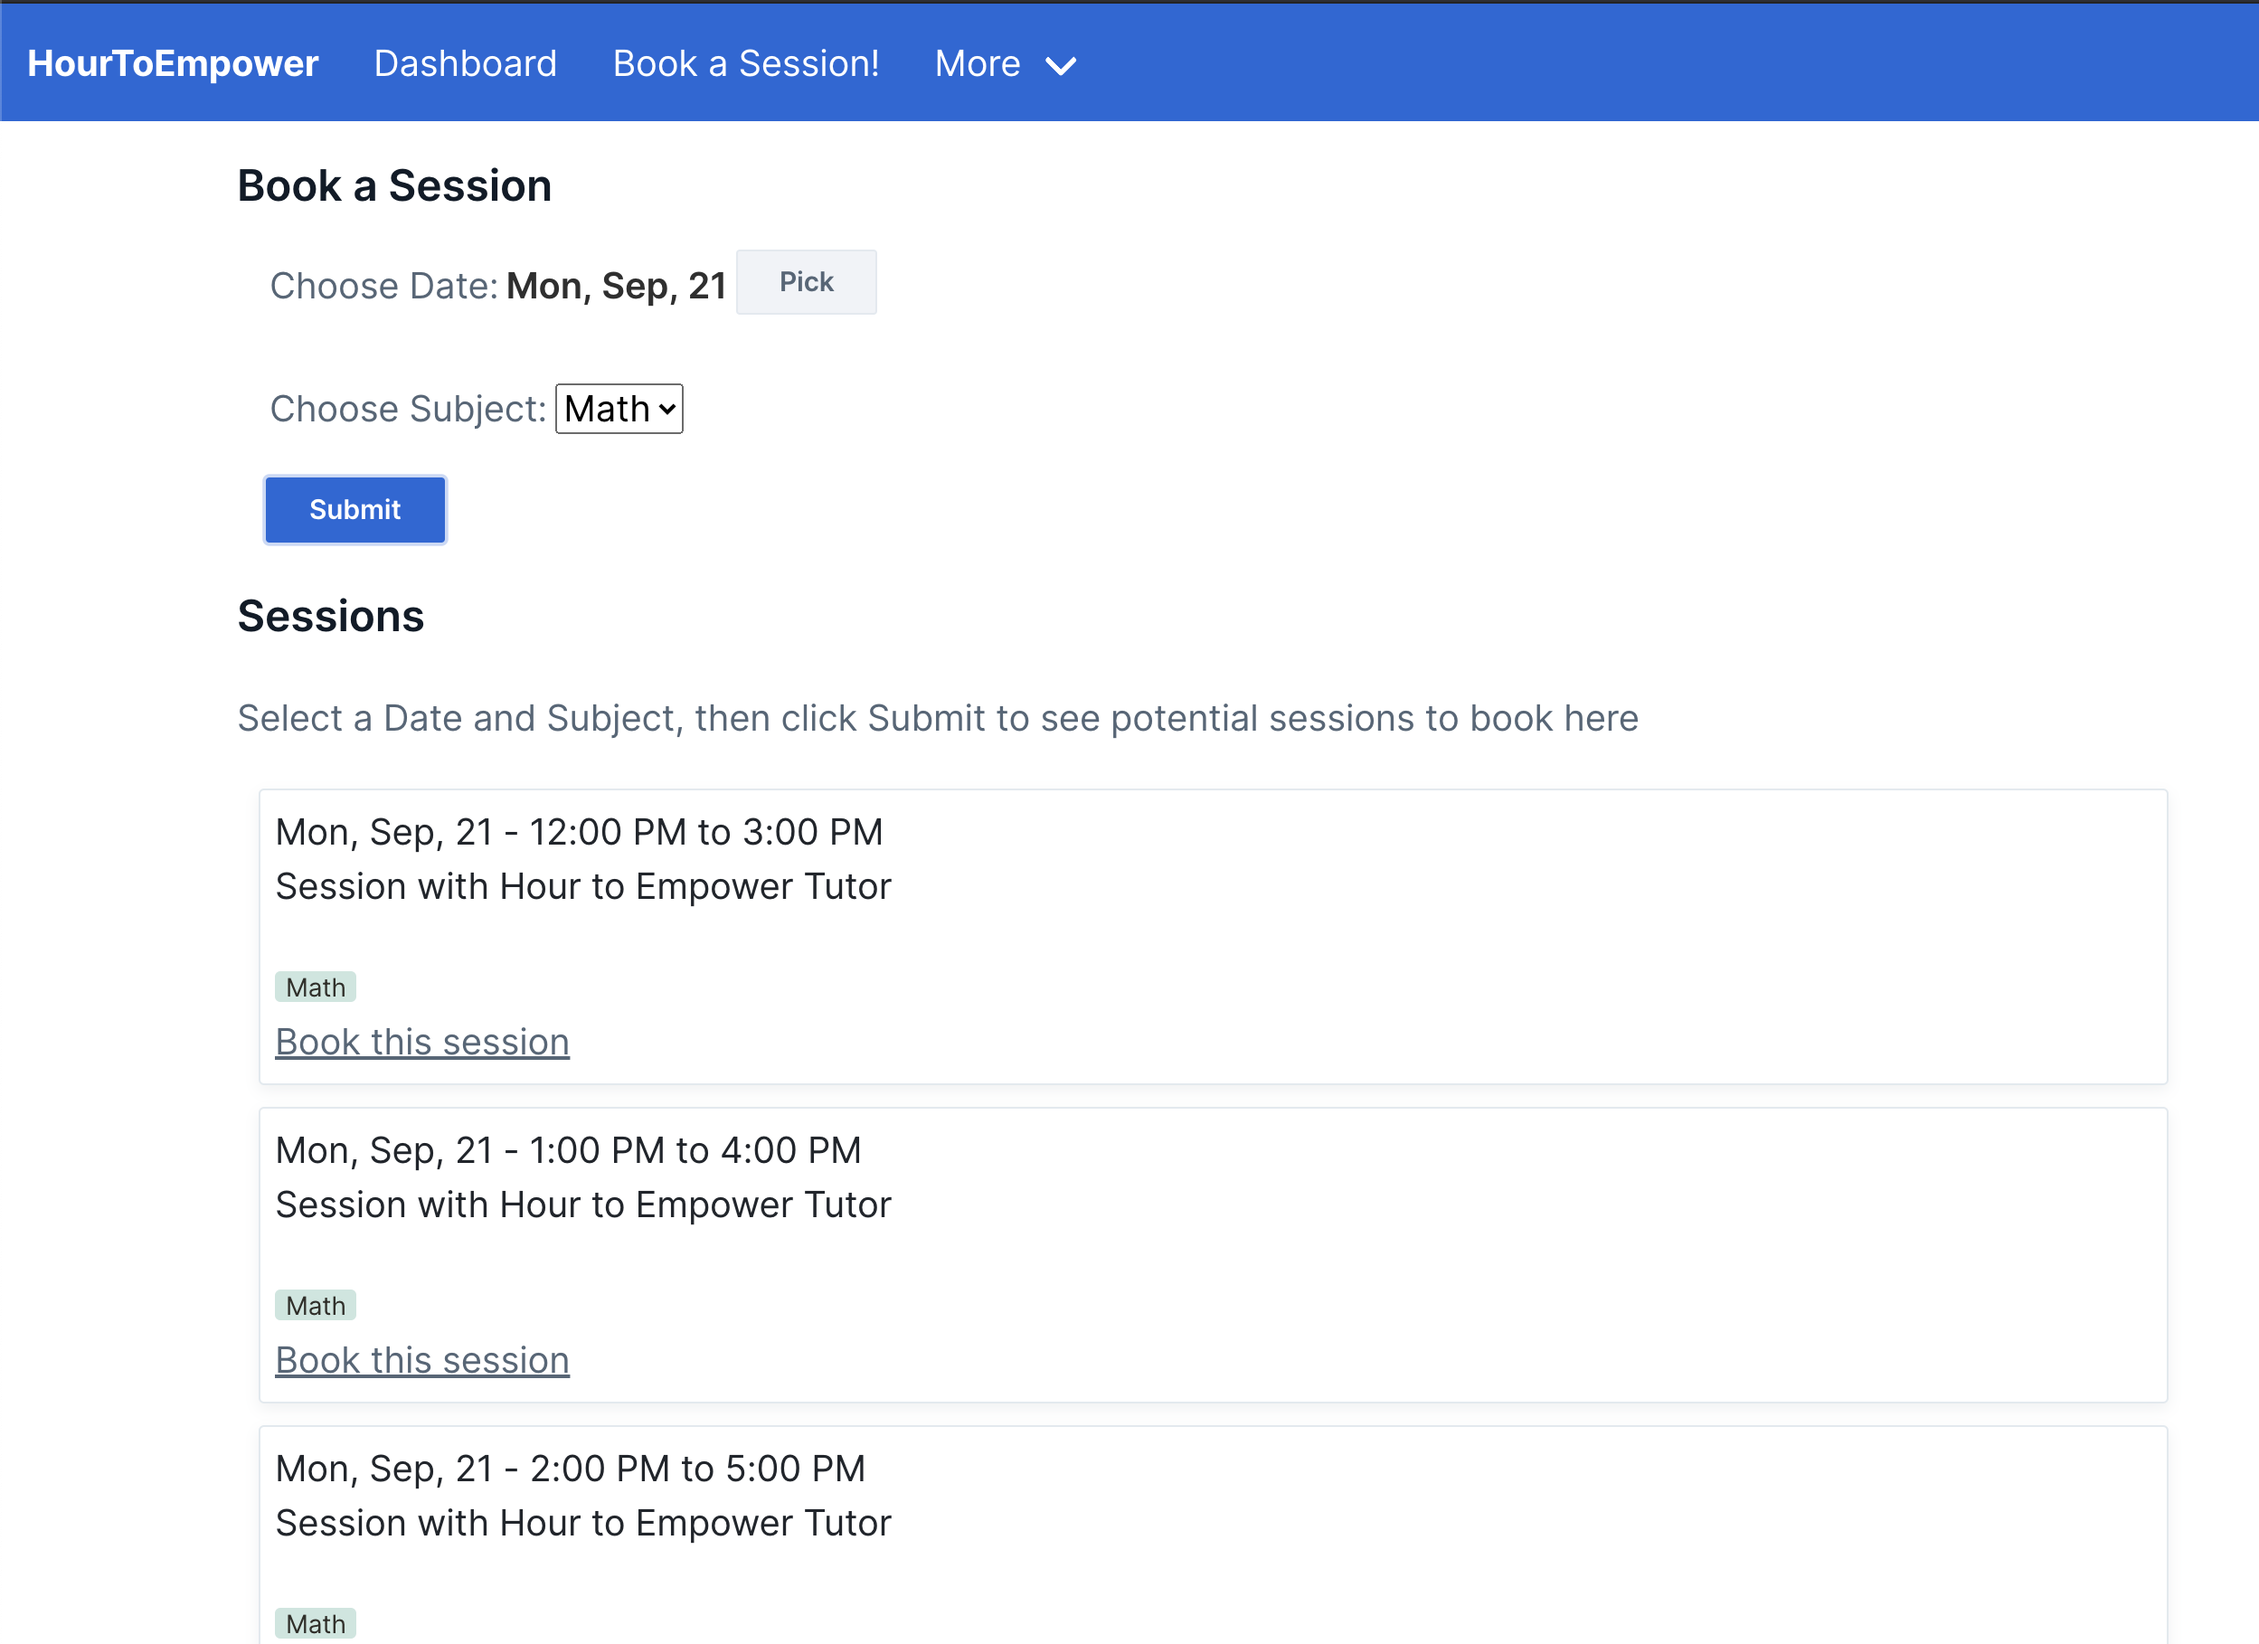
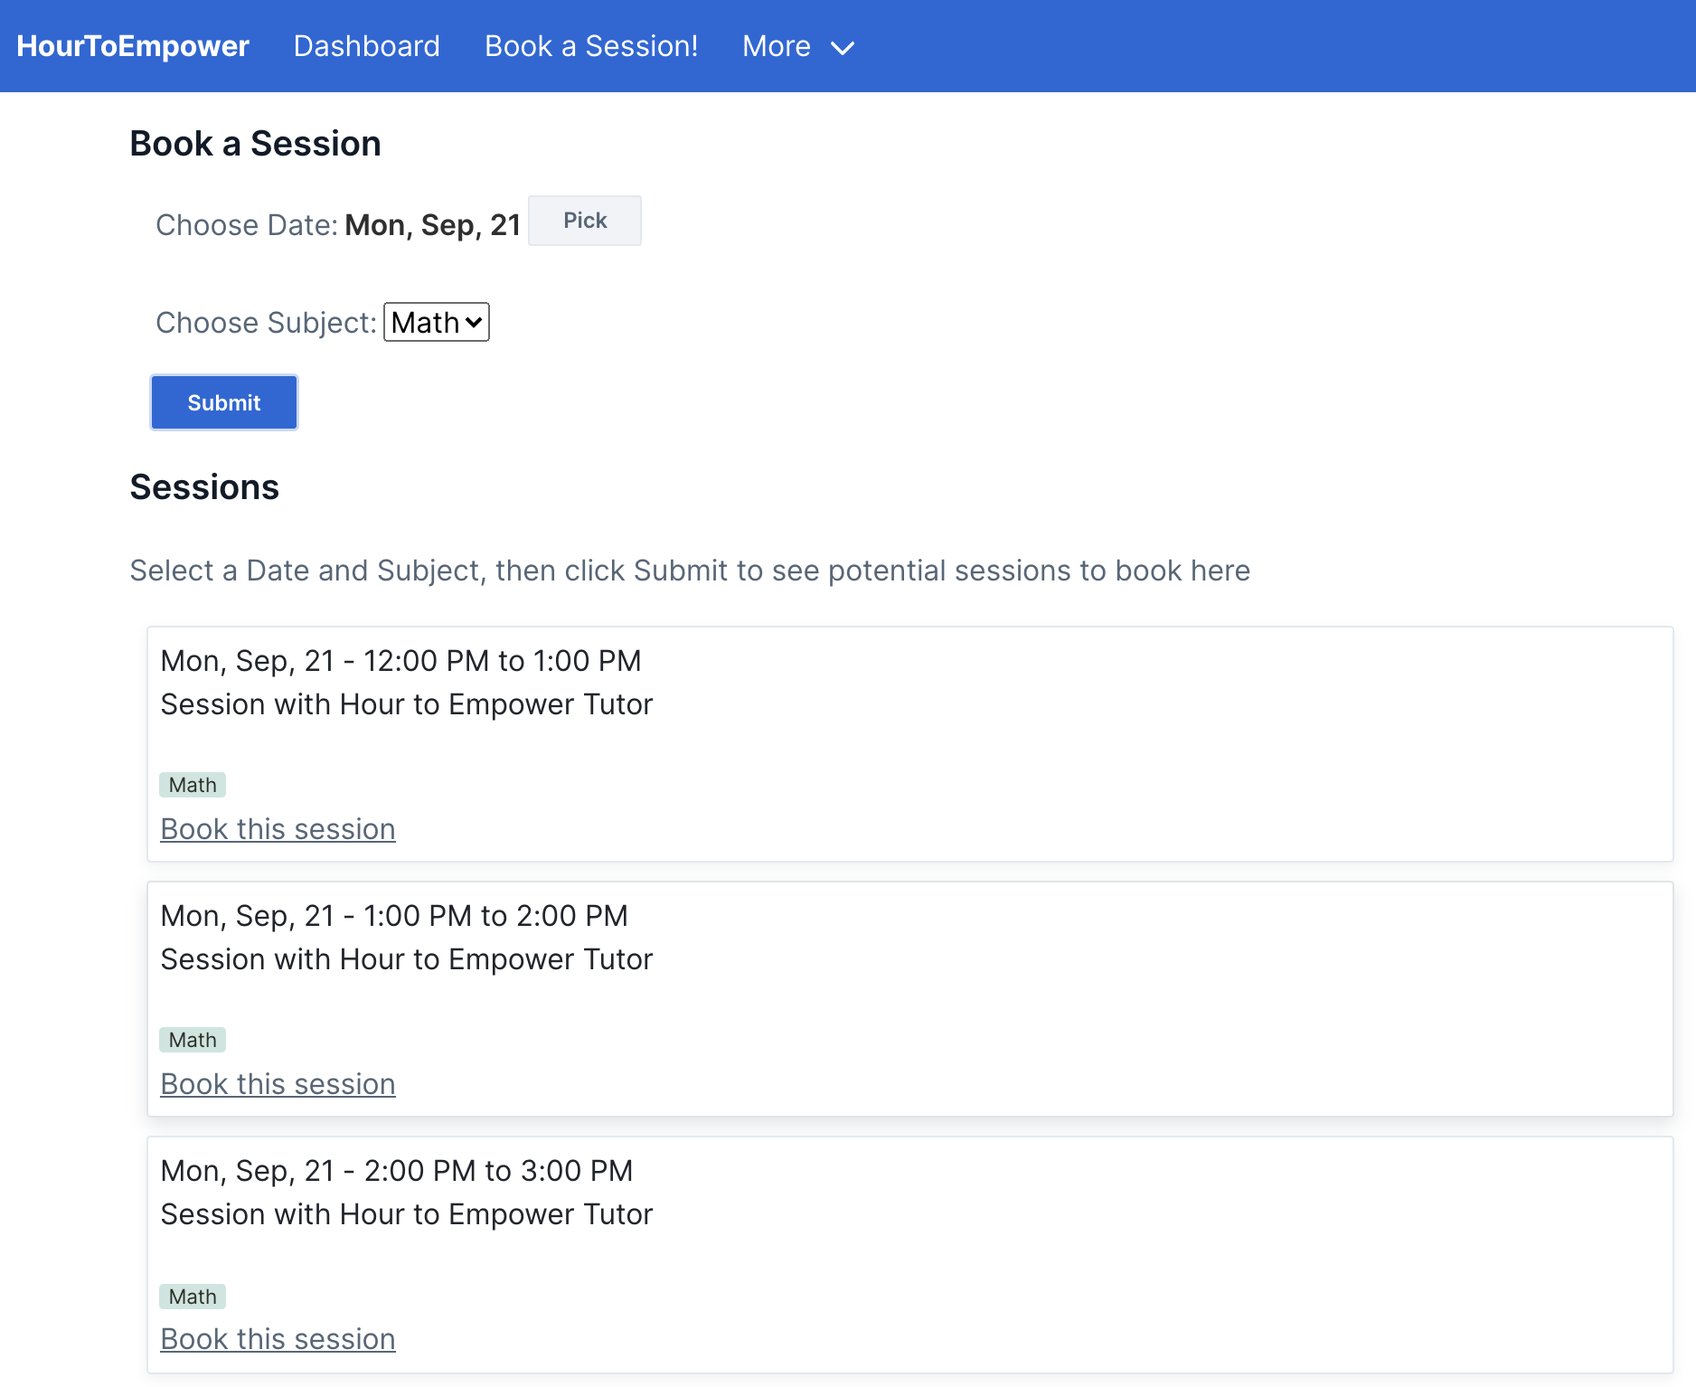
typo and case change

Changed region(s): [[0.0618, 0.2145, 0.742, 1.0], [0.0, 0.0, 1.0, 0.1226], [0.0928, 0.1532, 0.371, 0.1838]]

diff --git a/ui/app/src/components/sections/SignupForm.js b/ui/app/src/components/sections/SignupForm.js
@@ -323,11 +323,11 @@ class SignupForm extends React.Component {
         paragraph: 'Thank you for your interest in volunteering for Hour to Empower. Please fill out the details below. You will receive an email confirmation as well as an application form to gauge interests and suitability. Please note, as part of the screening process there is a mandatory background check.'
       },
       student: {
-        title: 'Welcome! Talk to your teacher to find out if your school is currently using HourToEmpower!', 
+        title: 'Welcome! Talk to your teacher to find out if your school is currently using Hour to Empower!', 
       },
       school: {
-        title: 'HourToEmower partners with schools to connect their students with high quality tutors across the country.', 
-        paragraph: 'Please fill out th form below if you are an administrator at a school interested in providing free tutoring services for your students. We will then schedule a time to determine if HourToEmpower is a fit for your school!'
+        title: 'Hour to Empower partners with schools to connect their students with high quality tutors across the country.', 
+        paragraph: 'Please fill out th form below if you are an administrator at a school interested in providing free tutoring services for your students. We will then schedule a time to determine if Hour to Empower is a fit for your school!'
       }
     };
 
@@ -339,7 +339,7 @@ class SignupForm extends React.Component {
               <div>
                 <div className="center-content">
                   <p>
-                    Hour to Empower is still being set up, but if you are interested in becoming a Tutor, please fill out the form below, and someone from HourToEmpower will reach out to you with next steps.
+                    Hour to Empower is still being set up, but if you are interested in becoming a Tutor, please fill out the form below, and someone from Hour to Empower will reach out to you with next steps.
                   </p>
                 </div>
                 {this.tutorSignupForm()}

diff --git a/ui/app/src/components/sections/TempLoginForm.js b/ui/app/src/components/sections/TempLoginForm.js
@@ -62,14 +62,14 @@ class TempLoginForm extends React.Component {
 
                 <h4>For Students</h4>
 
-                  <p>If you're a <span style={{fontWeight:'bold'}}>student</span>, speak with your teacher to find out if your school is planning on using HourToEmpower</p>
+                  <p>If you're a <span style={{fontWeight:'bold'}}>student</span>, speak with your teacher to find out if your school is planning on using Hour to Empower</p>
 
                   <h4>For Tutors</h4>
                   <p>If you're interested in becoming a <span style={{fontWeight:'bold'}}>tutor</span>, please take a look at our <Link to="/signup/tutor">Tutor Application</Link></p>
 
 
                   <h4>For Parents</h4>
-                  <p>Help your child get started with HourToEmpower by sending an email to <a href="mailto:hrtoempower@gmail.com">hrtoempower@gmail.com</a> </p>
+                  <p>Help your child get started with Hour to Empower by sending an email to <a href="mailto:hrtoempower@gmail.com">hrtoempower@gmail.com</a> </p>
 
 
                   <h4>For Everyone</h4>

diff --git a/ui/app/src/components/layout/TutorHeader.js b/ui/app/src/components/layout/TutorHeader.js
@@ -101,7 +101,7 @@ class TutorHeader extends React.Component {
       <nav className="navbar is-fixed-top is-success" role="navigation" aria-label="main navigation">
         <div className="navbar-brand">
           <a className="navbar-item">
-            HourToEmpower
+            Hour to Empower
           </a>
           <a role="button" className="navbar-burger burger" aria-label="menu" aria-expanded="false" data-target="navbarBasicExample">
             <span aria-hidden="true"></span>

diff --git a/ui/app/src/components/layout/StudentHeader.js b/ui/app/src/components/layout/StudentHeader.js
@@ -101,7 +101,7 @@ class StudentHeader extends React.Component {
       <nav className="navbar is-fixed-top is-link" role="navigation" aria-label="main navigation">
         <div className="navbar-brand">
           <a className="navbar-item">
-            HourToEmpower
+            Hour to Empower
           </a>
           <a role="button" className="navbar-burger burger" aria-label="menu" aria-expanded="false" data-target="navbarBasicExample">
             <span aria-hidden="true"></span>

diff --git a/ui/app/src/components/sections/SubmissionResult.js b/ui/app/src/components/sections/SubmissionResult.js
@@ -48,10 +48,10 @@ class SubmissionResult extends React.Component {
 
     const sectionHeader = {
       tutor: {
-        title: 'Thank you for submitting your application to HourToEmpower!'
+        title: 'Thank you for submitting your application to Hour to Empower!'
       },
       school: {
-        title: 'Thank you for your interest in partnering with HourToEmpower!'
+        title: 'Thank you for your interest in partnering with Hour to Empower!'
       }
     };
 

diff --git a/ui/app/src/components/sections/ParentSection.js b/ui/app/src/components/sections/ParentSection.js
@@ -57,7 +57,7 @@ class ParentSection extends React.Component {
           <div className={innerClasses}>
             <div>
                 <div className="center-content">
-                  <h3>Help your child get started with HourToEmpower</h3>                
+                  <h3>Help your child get started with Hour to Empower</h3>                
                 </div>
                 <br/>
                 <p>

diff --git a/ui/app/public/index.html b/ui/app/public/index.html
@@ -22,7 +22,7 @@
       work correctly both with client-side routing and a non-root public URL.
       Learn how to configure a non-root public URL by running `npm run build`.
     -->
-    <title>HourToEmpower</title>
+    <title>Hour to Empower</title>
 </head>
 
 <body class="has-animations">

diff --git a/ui/app/src/components/sections/LoginForm.js b/ui/app/src/components/sections/LoginForm.js
@@ -66,7 +66,7 @@ function LoginForm(props) {
   );
 
   const sectionHeader = {
-    title: 'HourToEmpower',
+    title: 'Hour to Empower',
   };
 
   return (

diff --git a/backend/h2e_api/main/endpoints/bookings/utils.py b/backend/h2e_api/main/endpoints/bookings/utils.py
@@ -43,7 +43,7 @@ def get_all_bookings_by_filter(user_id, filters):
         for i in range(int(duration / session_duration)):
             session = {
                 'start_time': datetime.combine(filters.get('date_from'), p.start_time) + timedelta(hours=i),
-                'end_time': datetime.combine(filters.get('date_from'), p.start_time) + timedelta(hours=i + duration),
+                'end_time': datetime.combine(filters.get('date_from'), p.start_time) + timedelta(hours=i + session_duration),
                 'tutor_name': 'Session with Hour to Empower Tutor'
             }
             final_bookings.append(session)
